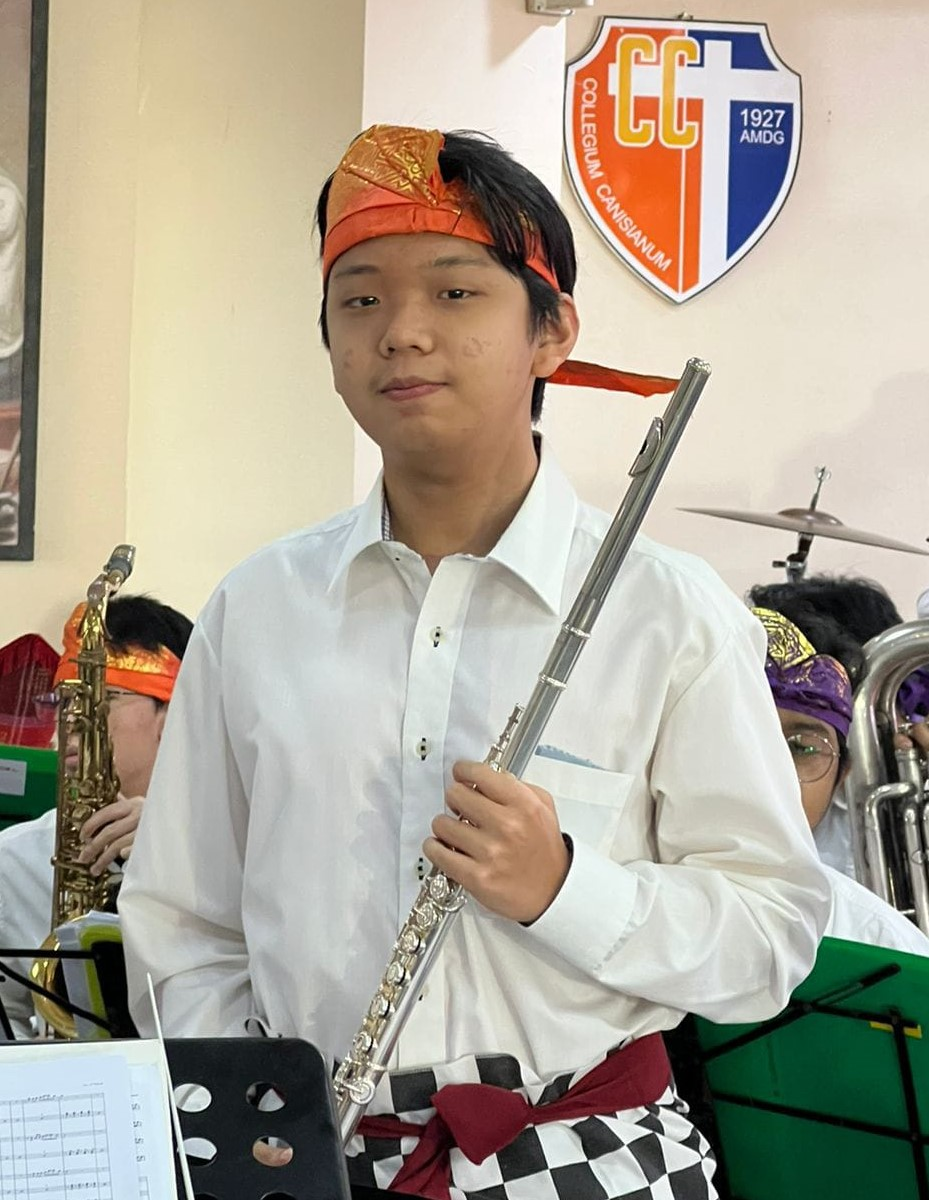
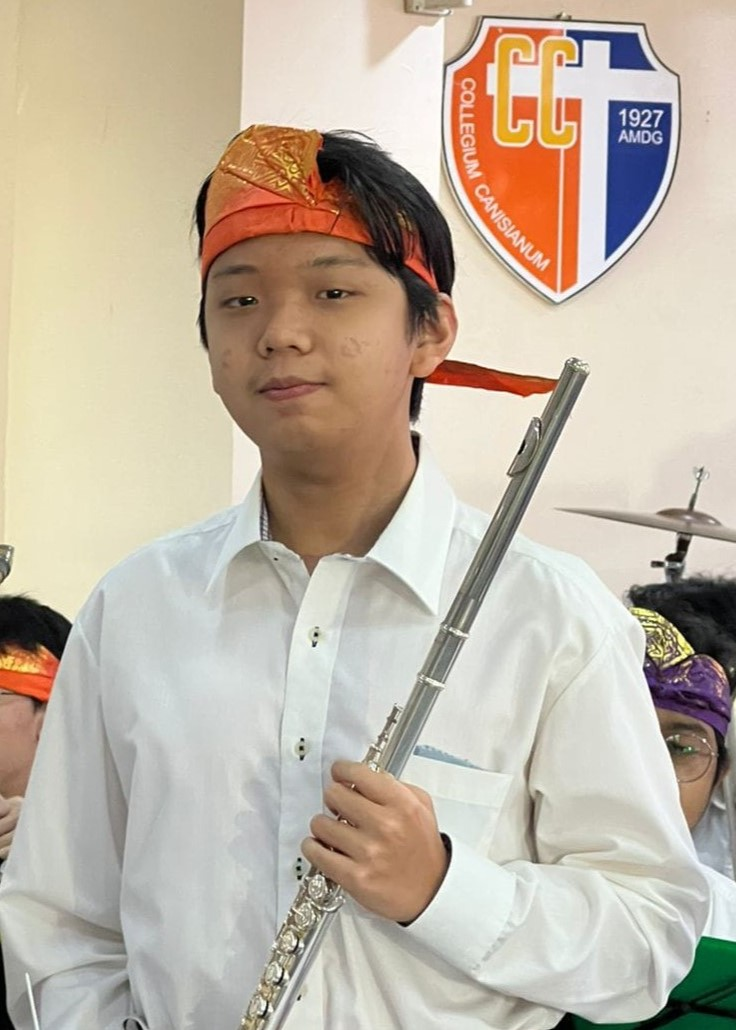
fix: fixed image formatting

diff --git a/app/about/page.tsx b/app/about/page.tsx
@@ -1,3 +1,5 @@
+import Image from "next/image";
+
 export default function About() {
     return (
       <div className="about_text">
@@ -11,7 +13,7 @@ export default function About() {
         <h2>Interests</h2>
         <p> Right now, I am interested in:</p>
         
-        <div>
+        <div className="interest_table">
           <table>
             <tr>
               <th>Software Engineering</th>
@@ -50,14 +52,28 @@ export default function About() {
 
         <div className="image_table">
           <table>
-            <tr>
-              <td>
-                <img src="/orkes_smp.png" className="foto_smp"></img>
-              </td>
-              <td>
-                <img src="/flute_cc.jpeg" className="foto_sma"></img>
-              </td>
-            </tr>
+            <tbody>
+              <tr>
+                <td>
+                  <Image 
+                    src="/orkes_smp.png" 
+                    className="foto_smp" 
+                    alt="Photo FLute SMP" 
+                    width={759}
+                    height={784}
+                  />
+                </td>
+                <td>
+                  <Image 
+                    src="/flute_cc.png" 
+                    className="foto_sma" 
+                    alt="Photo Flute SMA" 
+                    width={736}
+                    height={1030}
+                  />
+                </td>
+              </tr>
+            </tbody>
           </table>
         </div>
       </div>

diff --git a/app/page.tsx b/app/page.tsx
@@ -11,8 +11,20 @@ export default function Home() {
           SPARTA 2023 Hands On Project.</p>
       </div>
       <div className="home_images">
-        <img src="/blueblob.png" className="blob"></img>
-        <img src="/foto_diri.png" className="photo"></img>
+        <Image 
+          src="/blueblob.png" 
+          className="blob" 
+          alt="Blue Blob" 
+          width={2500}
+          height={2500}
+        />
+        <Image 
+          src="/foto_diri.png" 
+          className="photo" 
+          alt="Self Photo" 
+          width={750}
+          height={750}
+        />
       </div>
     </div>
   );

diff --git a/app/globals.css b/app/globals.css
@@ -111,7 +111,6 @@ nav a:hover {
 }
 
 .blob {
-  height: 120%;
   right: 10px;
   transform: rotate(90deg);
   left: 30%;
@@ -120,7 +119,6 @@ nav a:hover {
 
 .photo {
   top: 50px;
-  height: 120%;
   left: 20%;
 }
 
@@ -166,13 +164,6 @@ th, td {
   border: 0px;
   text-align: center;
   padding: 10px;
-}
-
-.image_table table {
-  table-layout: fixed;
-  width: 90%;
-  margin-top: 2%;
-  margin-left: 50px;
 }
 
 .text {
